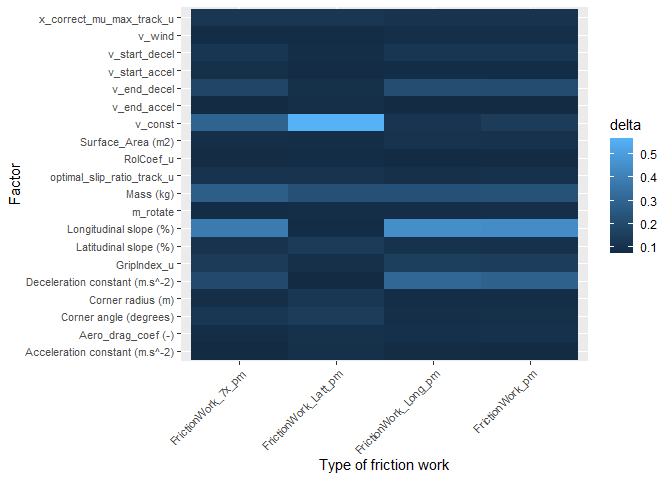
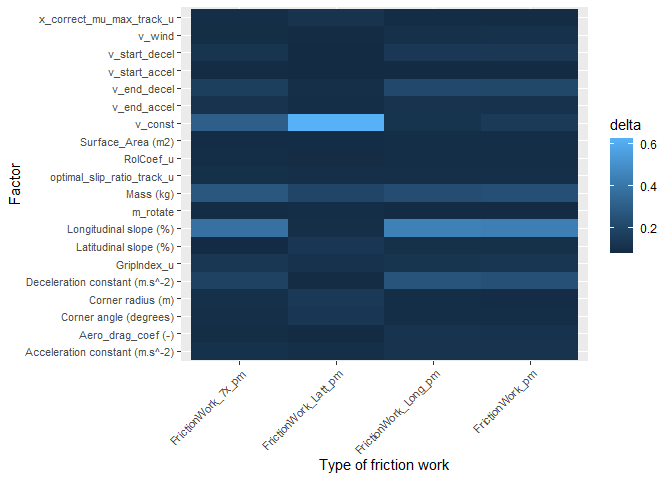
reformatting

Changed region(s): [[0.9375, 0.2812, 1.0, 0.5312], [0.5625, 0.5625, 0.7188, 0.625]]

diff --git a/FrictionWorkModelSensitivity.md b/FrictionWorkModelSensitivity.md
@@ -10,32 +10,32 @@
 
 ## 1. Data prepartion
 
-    ## # A tibble: 6 × 34
-    ##   `Section name` `Test section` AbrasionTest  Track             `Number of laps`
-    ##   <chr>          <chr>          <chr>         <chr>                        <dbl>
-    ## 1 MotorwaySIML   Motorway_SIML  Motorway_SIML Oval Outer LaneS…                1
-    ## 2 MotorwaySIML   Motorway_SIML  Motorway_SIML Oval Outer LaneS…                1
-    ## 3 MotorwaySIML   Motorway_SIML  Motorway_SIML Oval Outer LaneS…                1
-    ## 4 MotorwaySIML   Motorway_SIML  Motorway_SIML Oval Outer LaneS…                1
-    ## 5 MotorwaySIML   Motorway_SIML  Motorway_SIML Oval Outer LaneS…                1
-    ## 6 MotorwaySIML   Motorway_SIML  Motorway_SIML Oval Outer LaneS…                1
+    ## # A tibble: 4,000 × 34
+    ##    `Section name` `Test section` AbrasionTest  Track            `Number of laps`
+    ##    <chr>          <chr>          <chr>         <chr>                       <dbl>
+    ##  1 MotorwaySIML   Motorway_SIML  Motorway_SIML Oval Outer Lane…                1
+    ##  2 MotorwaySIML   Motorway_SIML  Motorway_SIML Oval Outer Lane…                1
+    ##  3 MotorwaySIML   Motorway_SIML  Motorway_SIML Oval Outer Lane…                1
+    ##  4 MotorwaySIML   Motorway_SIML  Motorway_SIML Oval Outer Lane…                1
+    ##  5 MotorwaySIML   Motorway_SIML  Motorway_SIML Oval Outer Lane…                1
+    ##  6 MotorwaySIML   Motorway_SIML  Motorway_SIML Oval Outer Lane…                1
+    ##  7 MotorwaySIML   Motorway_SIML  Motorway_SIML Oval Outer Lane…                1
+    ##  8 MotorwaySIML   Motorway_SIML  Motorway_SIML Oval Outer Lane…                1
+    ##  9 MotorwaySIML   Motorway_SIML  Motorway_SIML Oval Outer Lane…                1
+    ## 10 MotorwaySIML   Motorway_SIML  Motorway_SIML Oval Outer Lane…                1
+    ## # ℹ 3,990 more rows
     ## # ℹ 29 more variables: `Total distance (km)` <dbl>, RolCoef_u <dbl>,
     ## #   GripIndex_u <dbl>, Underground <chr>, x_correct_mu_max_track_u <dbl>,
     ## #   optimal_slip_ratio_track_u <dbl>, RUNS <int>, `Mass (kg)` <dbl>,
     ## #   `Aero_drag_coef (-)` <dbl>, `Surface_Area (m2)` <dbl>,
     ## #   `Longitudinal slope (%)` <dbl>, `Latitudinal slope (%)` <dbl>,
-    ## #   v_wind <dbl>, m_rotate <dbl>, v_start_decel <dbl>, v_end_decel <dbl>,
-    ## #   v_start_accel <dbl>, v_end_accel <dbl>, v_const <dbl>, …
+    ## #   v_wind <dbl>, m_rotate <dbl>, v_start_decel <dbl>, v_end_decel <dbl>, …
 
 ## 2. Total Force
 
 Longitutidal and Lattidunal forces are calculated
 
-## 3. Total Slip
-
-## 4. Total Friction Work
-
-    ## # A tibble: 9 × 41
+    ## # A tibble: 6 × 36
     ## # Rowwise: 
     ##   `Section name` `Test section` AbrasionTest  Track             `Number of laps`
     ##   <chr>          <chr>          <chr>         <chr>                        <dbl>
@@ -45,10 +45,7 @@ Longitutidal and Lattidunal forces are calculated
     ## 4 MotorwaySIML   Motorway_SIML  Motorway_SIML Oval Outer LaneS…                1
     ## 5 MotorwaySIML   Motorway_SIML  Motorway_SIML Oval Outer LaneS…                1
     ## 6 MotorwaySIML   Motorway_SIML  Motorway_SIML Oval Outer LaneS…                1
-    ## 7 MotorwaySIML   Motorway_SIML  Motorway_SIML Oval Outer LaneS…                1
-    ## 8 MotorwaySIML   Motorway_SIML  Motorway_SIML Oval Outer LaneS…                1
-    ## 9 MotorwaySIML   Motorway_SIML  Motorway_SIML Oval Outer LaneS…                1
-    ## # ℹ 36 more variables: `Total distance (km)` <dbl>, RolCoef_u <dbl>,
+    ## # ℹ 31 more variables: `Total distance (km)` <dbl>, RolCoef_u <dbl>,
     ## #   GripIndex_u <dbl>, Underground <chr>, x_correct_mu_max_track_u <dbl>,
     ## #   optimal_slip_ratio_track_u <dbl>, RUNS <int>, `Mass (kg)` <dbl>,
     ## #   `Aero_drag_coef (-)` <dbl>, `Surface_Area (m2)` <dbl>,
@@ -56,12 +53,50 @@ Longitutidal and Lattidunal forces are calculated
     ## #   v_wind <dbl>, m_rotate <dbl>, v_start_decel <dbl>, v_end_decel <dbl>,
     ## #   v_start_accel <dbl>, v_end_accel <dbl>, v_const <dbl>, …
 
-    ## # A tibble: 2 × 1
+## 3. Total Slip
+
+    ## # A tibble: 4,000 × 38
     ## # Rowwise: 
-    ##   `Sector name`     
-    ##   <chr>             
-    ## 1 East BendSIML     
-    ## 2 North StraightSIML
+    ##    `Section name` `Test section` AbrasionTest  Track            `Number of laps`
+    ##    <chr>          <chr>          <chr>         <chr>                       <dbl>
+    ##  1 MotorwaySIML   Motorway_SIML  Motorway_SIML Oval Outer Lane…                1
+    ##  2 MotorwaySIML   Motorway_SIML  Motorway_SIML Oval Outer Lane…                1
+    ##  3 MotorwaySIML   Motorway_SIML  Motorway_SIML Oval Outer Lane…                1
+    ##  4 MotorwaySIML   Motorway_SIML  Motorway_SIML Oval Outer Lane…                1
+    ##  5 MotorwaySIML   Motorway_SIML  Motorway_SIML Oval Outer Lane…                1
+    ##  6 MotorwaySIML   Motorway_SIML  Motorway_SIML Oval Outer Lane…                1
+    ##  7 MotorwaySIML   Motorway_SIML  Motorway_SIML Oval Outer Lane…                1
+    ##  8 MotorwaySIML   Motorway_SIML  Motorway_SIML Oval Outer Lane…                1
+    ##  9 MotorwaySIML   Motorway_SIML  Motorway_SIML Oval Outer Lane…                1
+    ## 10 MotorwaySIML   Motorway_SIML  Motorway_SIML Oval Outer Lane…                1
+    ## # ℹ 3,990 more rows
+    ## # ℹ 33 more variables: `Total distance (km)` <dbl>, RolCoef_u <dbl>,
+    ## #   GripIndex_u <dbl>, Underground <chr>, x_correct_mu_max_track_u <dbl>,
+    ## #   optimal_slip_ratio_track_u <dbl>, RUNS <int>, `Mass (kg)` <dbl>,
+    ## #   `Aero_drag_coef (-)` <dbl>, `Surface_Area (m2)` <dbl>,
+    ## #   `Longitudinal slope (%)` <dbl>, `Latitudinal slope (%)` <dbl>,
+    ## #   v_wind <dbl>, m_rotate <dbl>, v_start_decel <dbl>, v_end_decel <dbl>, …
+
+## 4. Total Friction Work
+
+    ## # A tibble: 994 × 10
+    ## # Groups:   RUNS [994]
+    ##     RUNS `Test section` FrictionWork_Long FrictionWork_Latt Distance_Track
+    ##    <int> <chr>                      <dbl>             <dbl>          <dbl>
+    ##  1     1 Motorway_SIML            279636.            12802.          9425.
+    ##  2     2 Motorway_SIML            315673.            15872.          9425.
+    ##  3     3 Motorway_SIML           2549390.             9455.          9425.
+    ##  4     4 Motorway_SIML           1784395.            40175.          9425.
+    ##  5     5 Motorway_SIML           1454854.            18445.          9425.
+    ##  6     6 Motorway_SIML            243048.             4404.          9425.
+    ##  7     7 Motorway_SIML            573886.            19739.          9425.
+    ##  8     8 Motorway_SIML             99484.             4987.          9425.
+    ##  9    10 Motorway_SIML            244517.            19851.          9425.
+    ## 10    11 Motorway_SIML            847123.             7069.          9425.
+    ## # ℹ 984 more rows
+    ## # ℹ 5 more variables: FrictionWork_Long_pm <dbl>, FrictionWork_Latt_pm <dbl>,
+    ## #   FrictionWork_pm <dbl>, FrictionWork_Latt_7x_pm <dbl>,
+    ## #   FrictionWork_7x_pm <dbl>
 
 ## 5. Global Sensitivity Analysis
 
